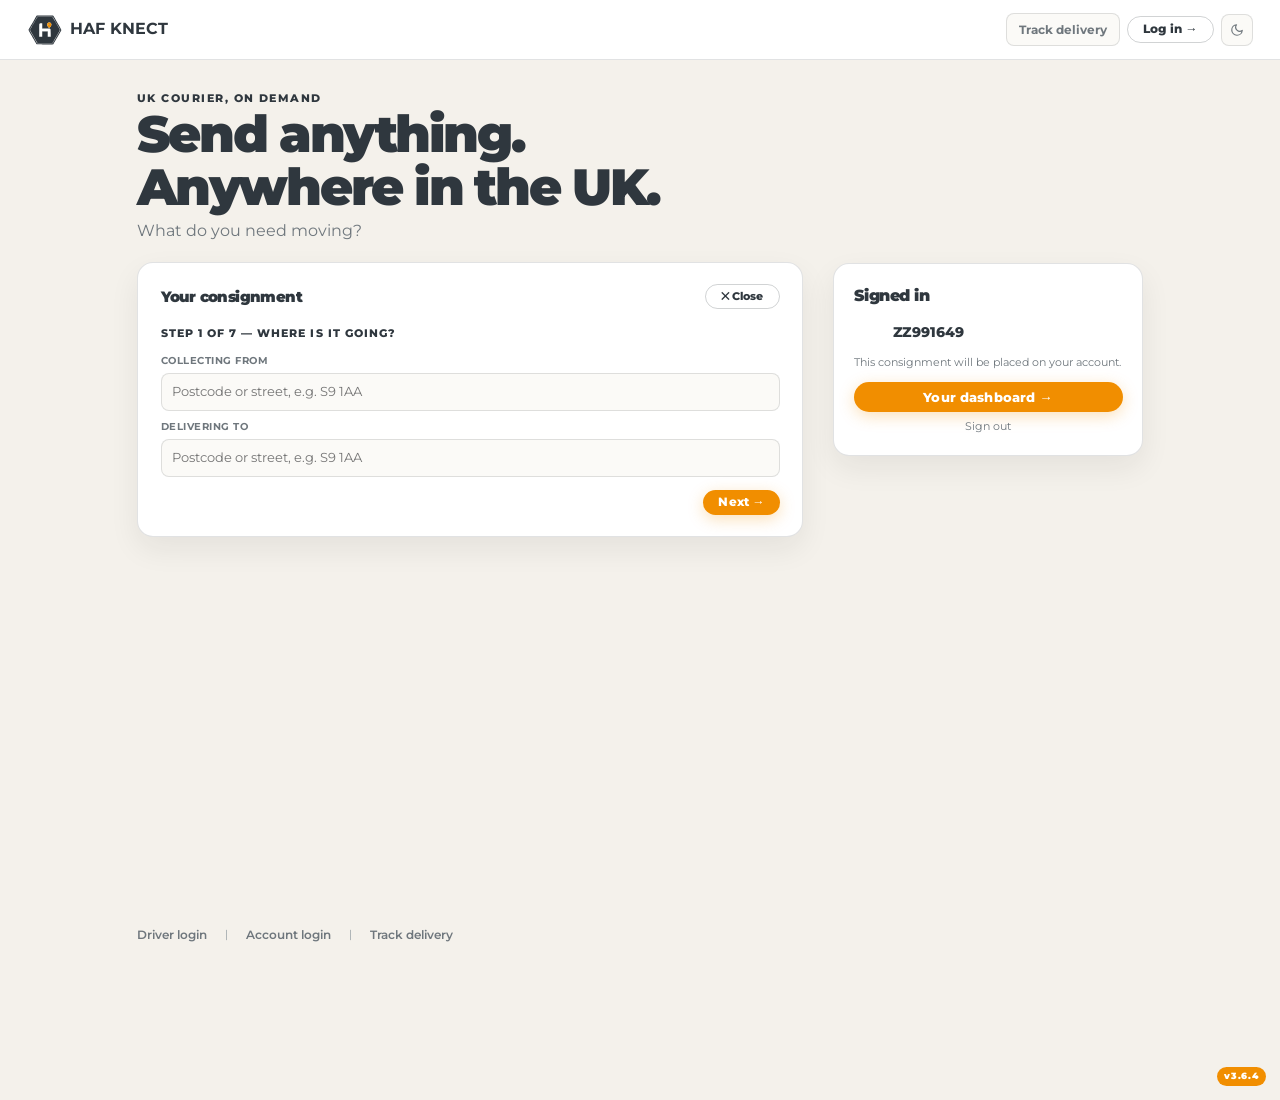
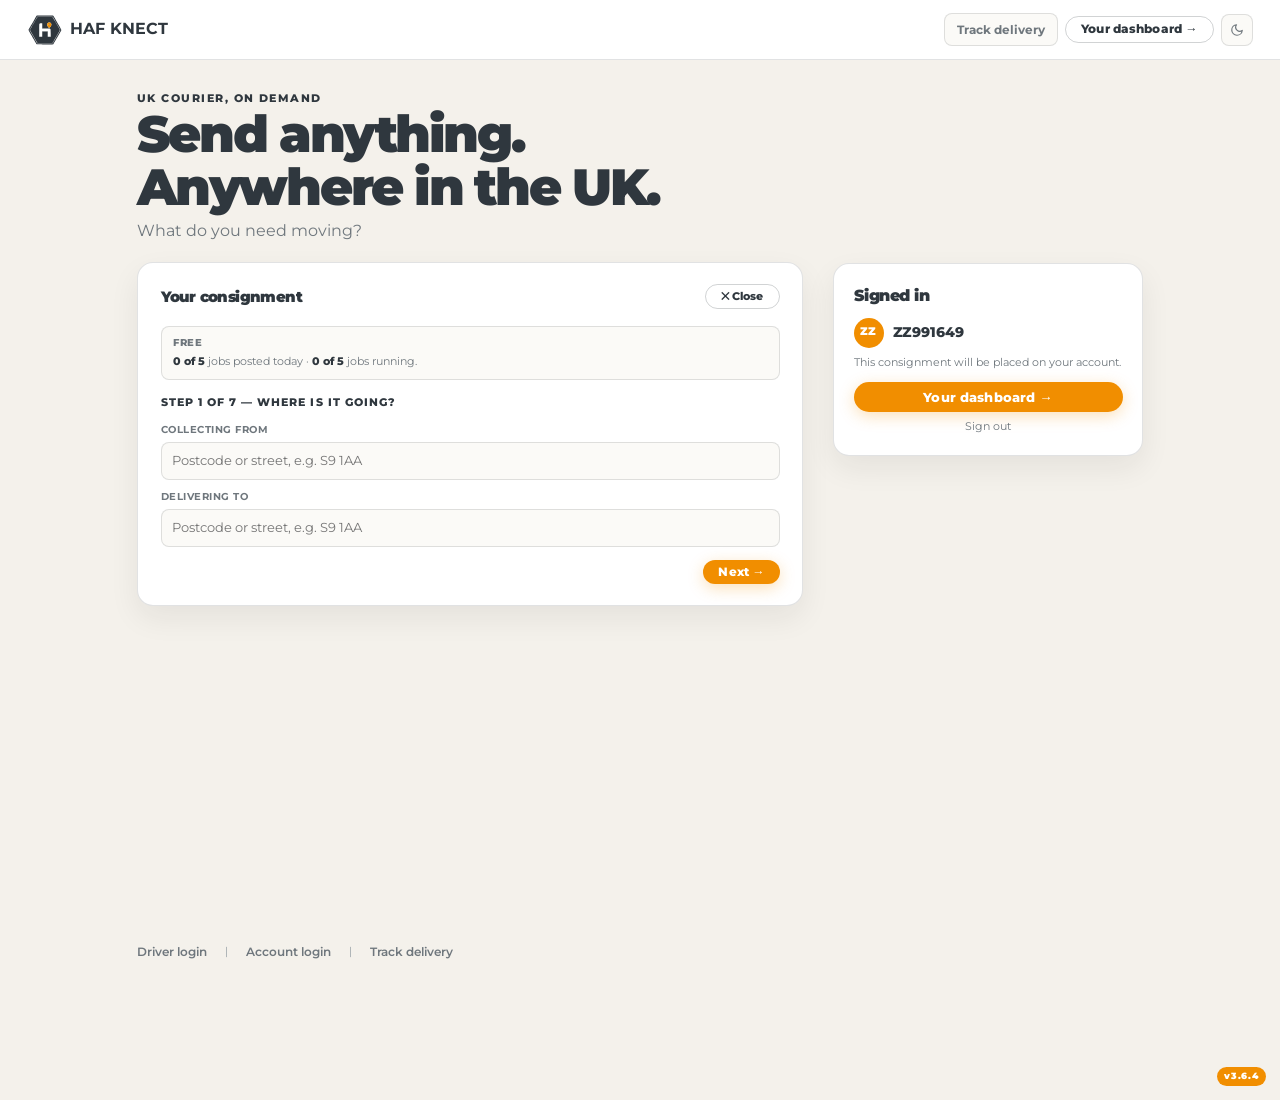
The dashboard button gets a phone-sized label
'Your dashboard' beside 'Track delivery' is wider than a 390px screen, and the
whole page could be pushed sideways by 30 pixels. Same button, same door, one
word narrower once the screen is.

diff --git a/index.html b/index.html
@@ -234,6 +234,8 @@ body.tile-focus #inline-flow>.calc-box{flex:1;display:flex;flex-direction:column
 .sa-av{flex:none;width:2rem;height:2rem;border-radius:50%;background:var(--or);color:#fff;display:flex;align-items:center;justify-content:center;font-weight:900;font-size:.72rem;letter-spacing:.02em}
 .sa-nm{font-weight:800;font-size:.9rem;letter-spacing:-.01em;word-break:break-all}
 .sa-note{font-size:.72rem;color:var(--mu);line-height:1.55;margin:0 0 .7rem}
+.nd-narrow{display:none}
+@media(max-width:560px){.nd-wide{display:none}.nd-narrow{display:inline}}
 /* The demo strip at the foot of the login card. Styled here rather than inline
    so the phone rule below can actually override it — an inline style would win
    and leave a divider floating on its own once the card around it is hidden. */
@@ -8018,8 +8020,13 @@ function hafSideAccount(){
   const on=!!(u&&_hafCred);
   login.style.display=on?'none':'';
   acct.style.display=on?'':'none';
+  /* Two labels, because "Your dashboard →" beside "Track delivery" is wider
+     than a phone and pushed the whole page sideways. The narrow one is not an
+     abbreviation of the wide one for its own sake — it is the same door. */
   const nav=document.getElementById('nav-login');
-  if(nav)nav.innerHTML=on?'Your dashboard &#8594;':'Log in &#8594;';
+  if(nav)nav.innerHTML=on
+    ?'<span class="nd-wide">Your dashboard &#8594;</span><span class="nd-narrow">Dashboard</span>'
+    :'Log in &#8594;';
   if(!on)return;
   const demo=(typeof DEMO_ACCOUNTS!=='undefined'&&DEMO_ACCOUNTS[u])||null;
   const nm=document.getElementById('sa-user'),av=document.getElementById('sa-av');
